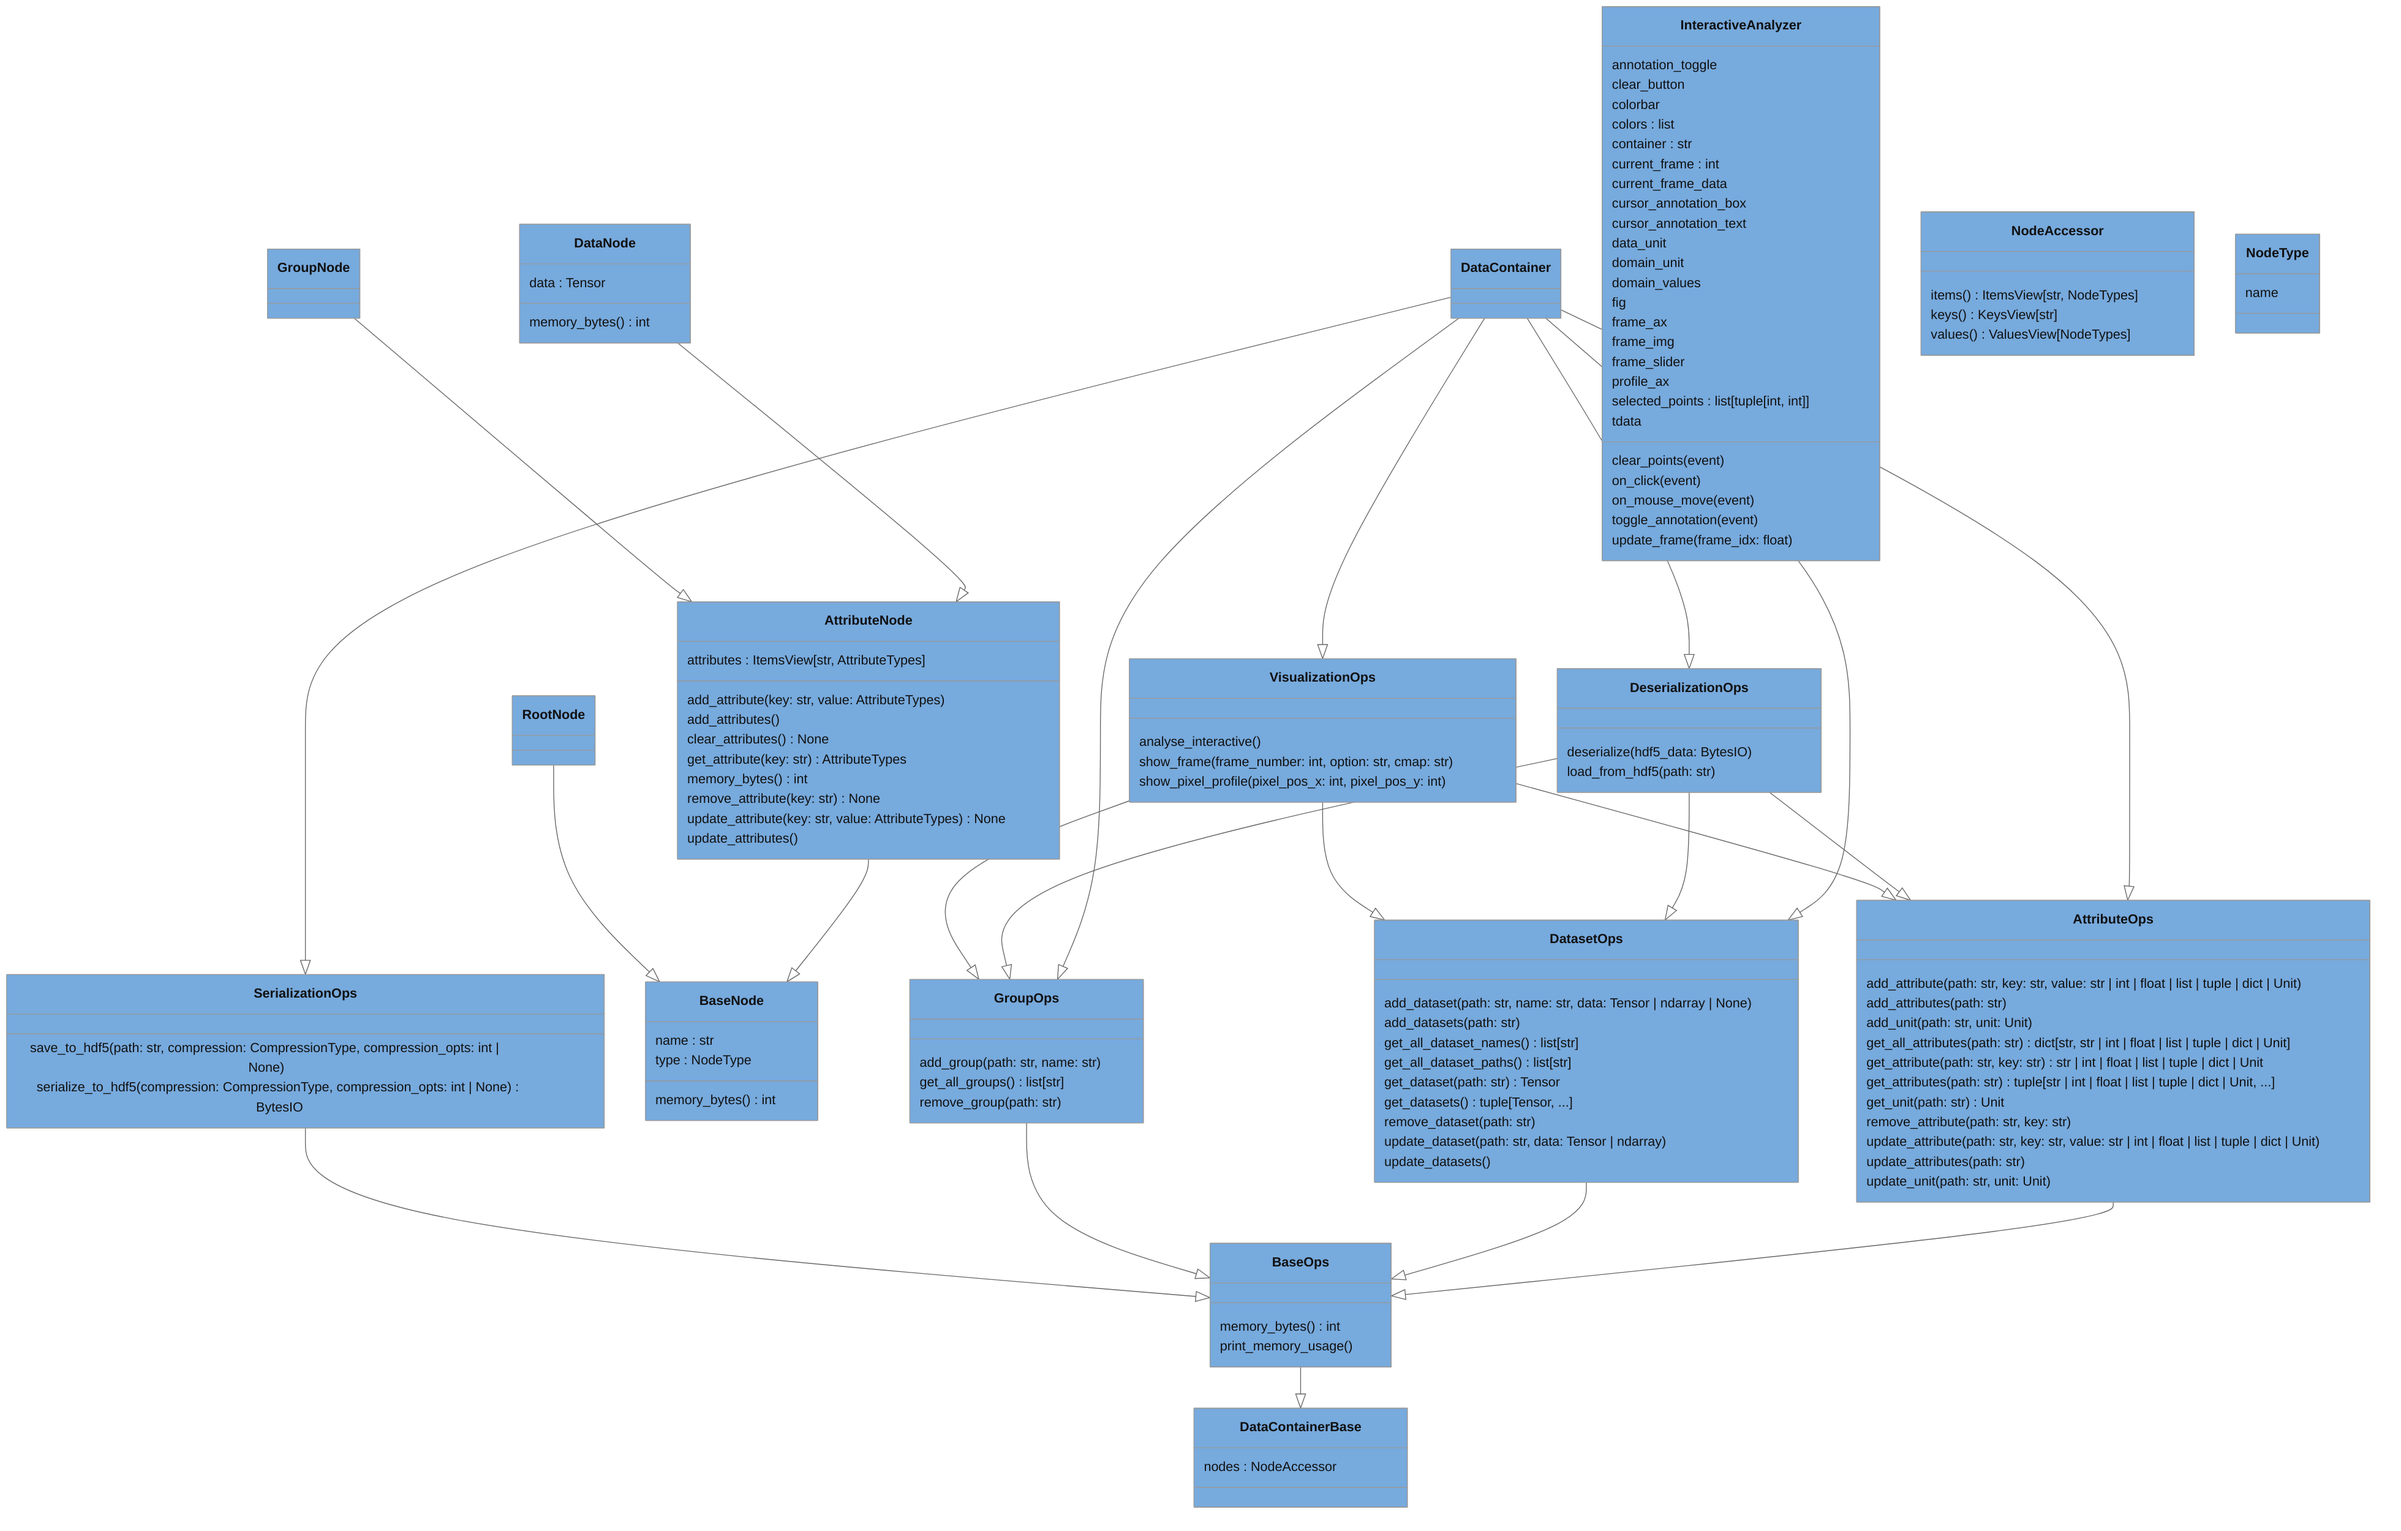
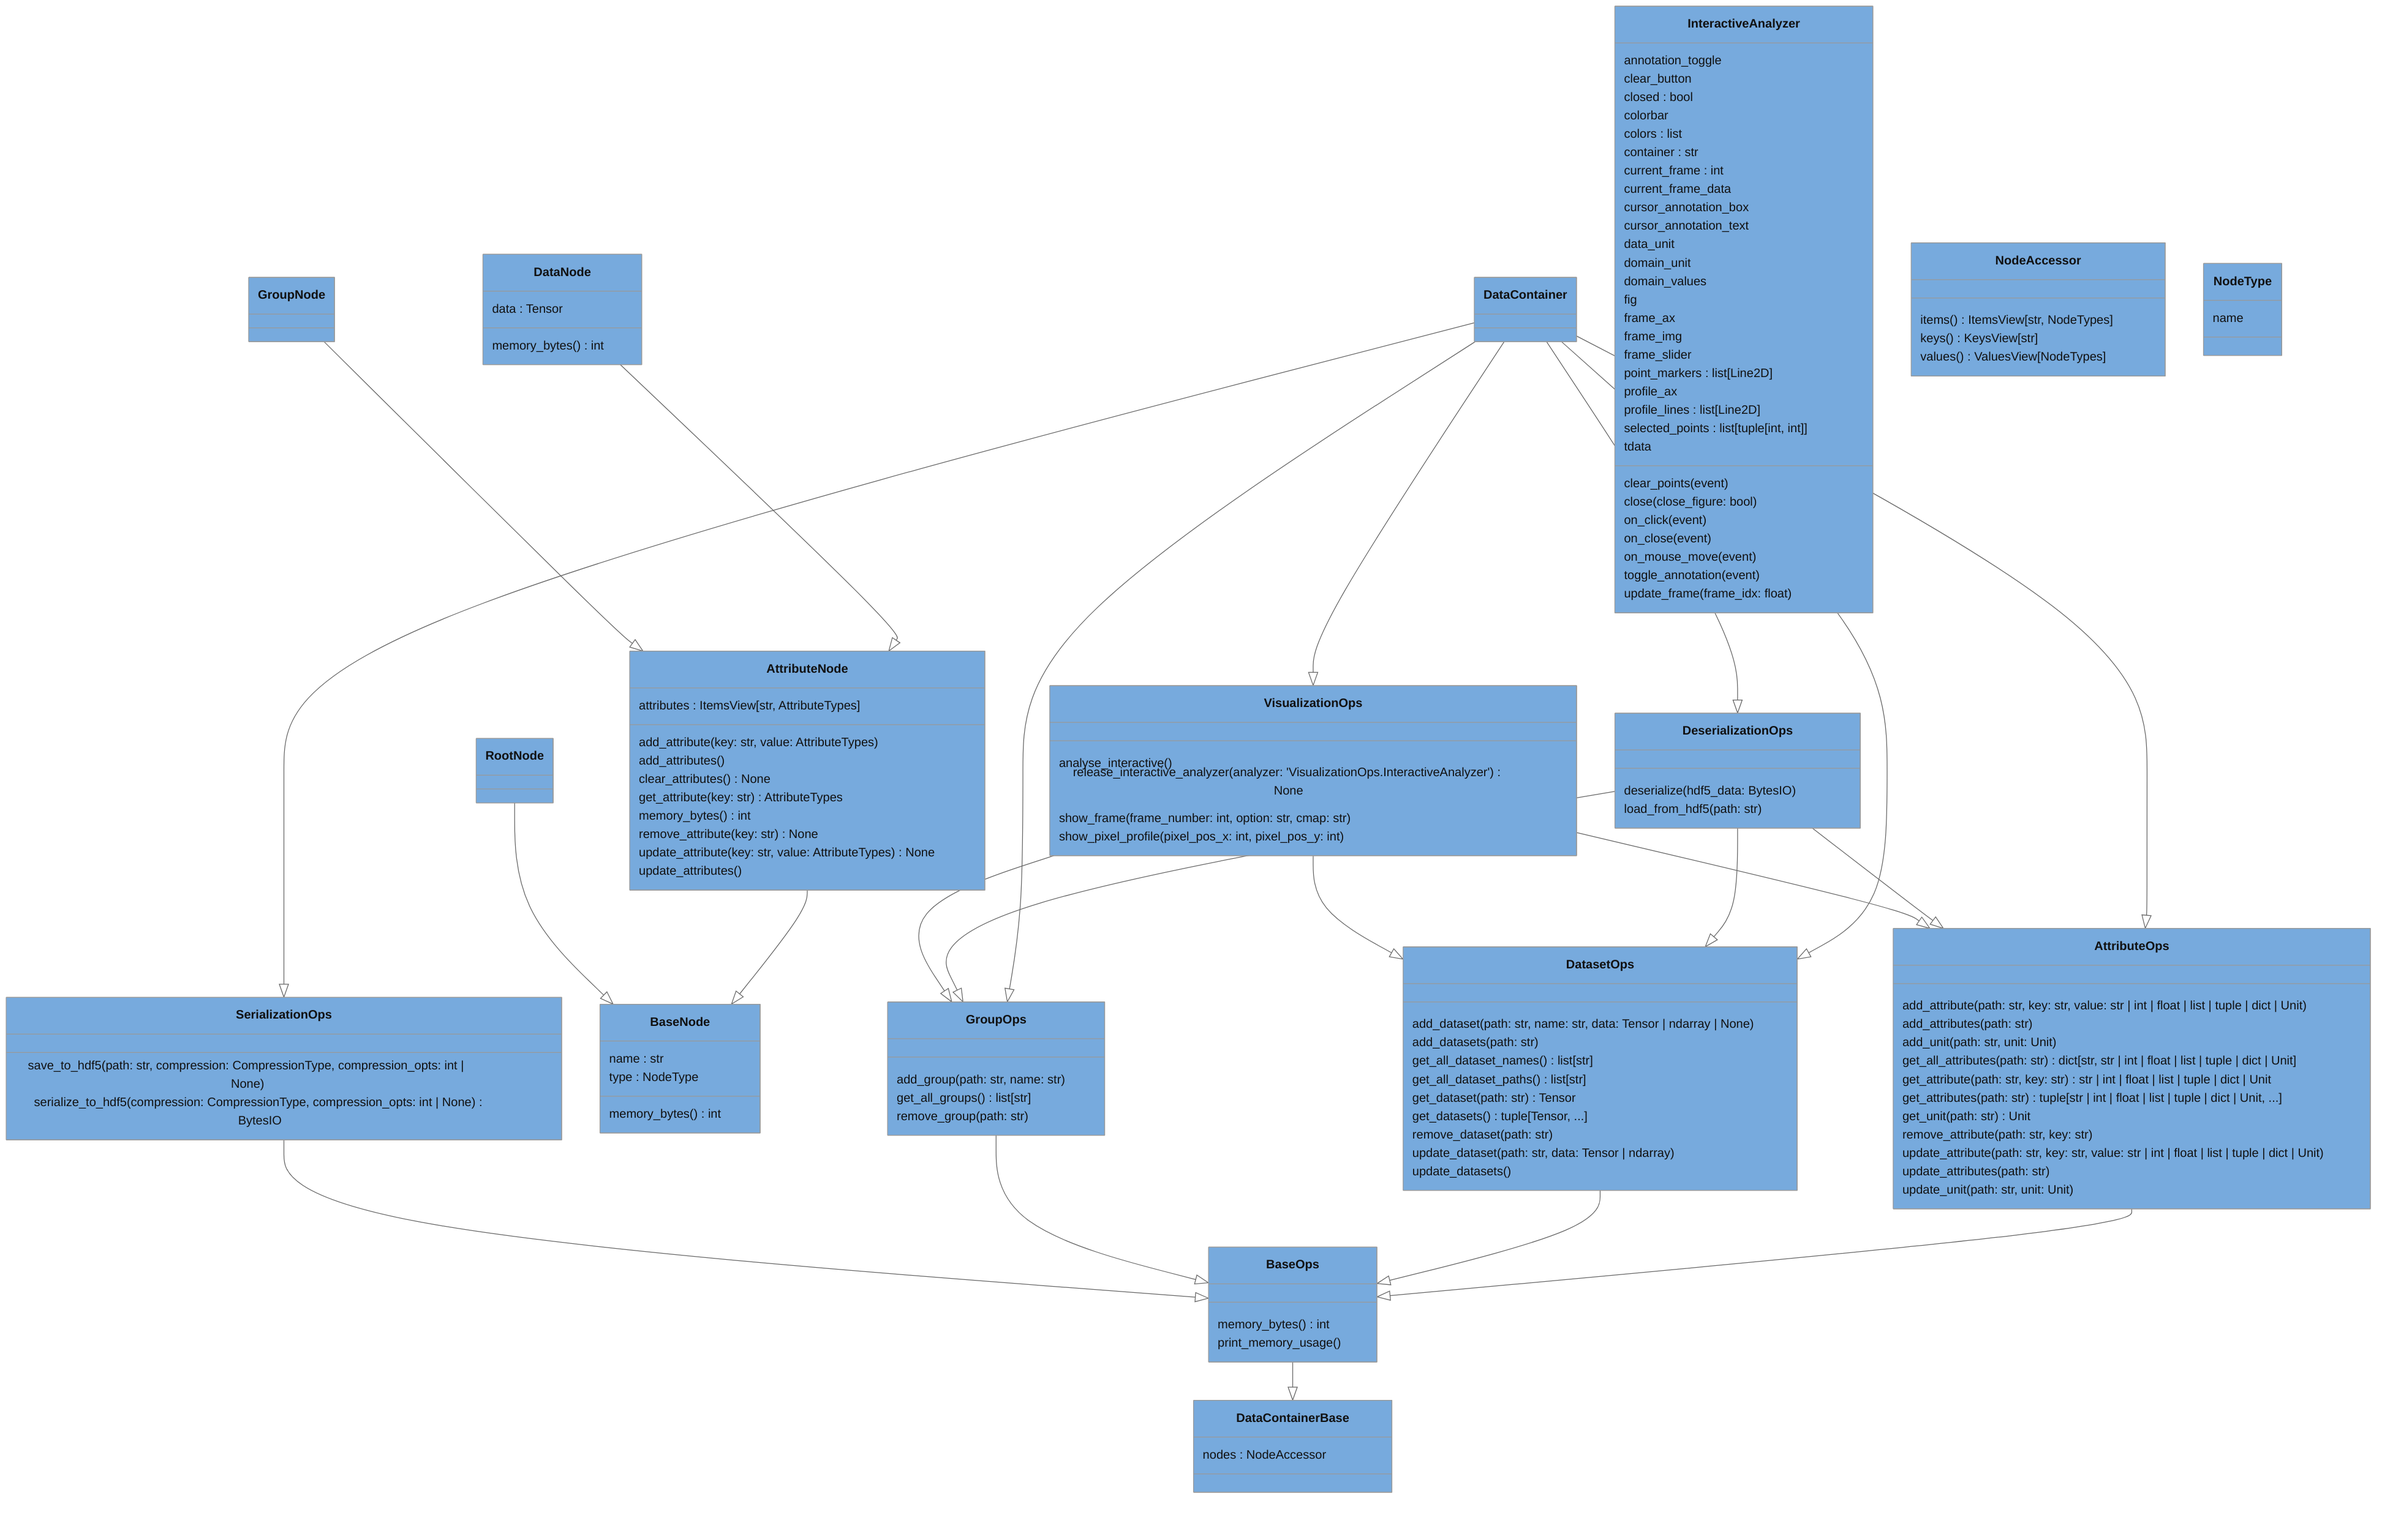
Release 0.3.4 (#377)
* Bump version: 0.3.4dev → 0.3.4

* Update mermaid diagrams

---------

diff --git a/src/pythermondt/__pkginfo__.py b/src/pythermondt/__pkginfo__.py
@@ -1,1 +1,1 @@
-__version__ = "0.3.4dev"
+__version__ = "0.3.4"
